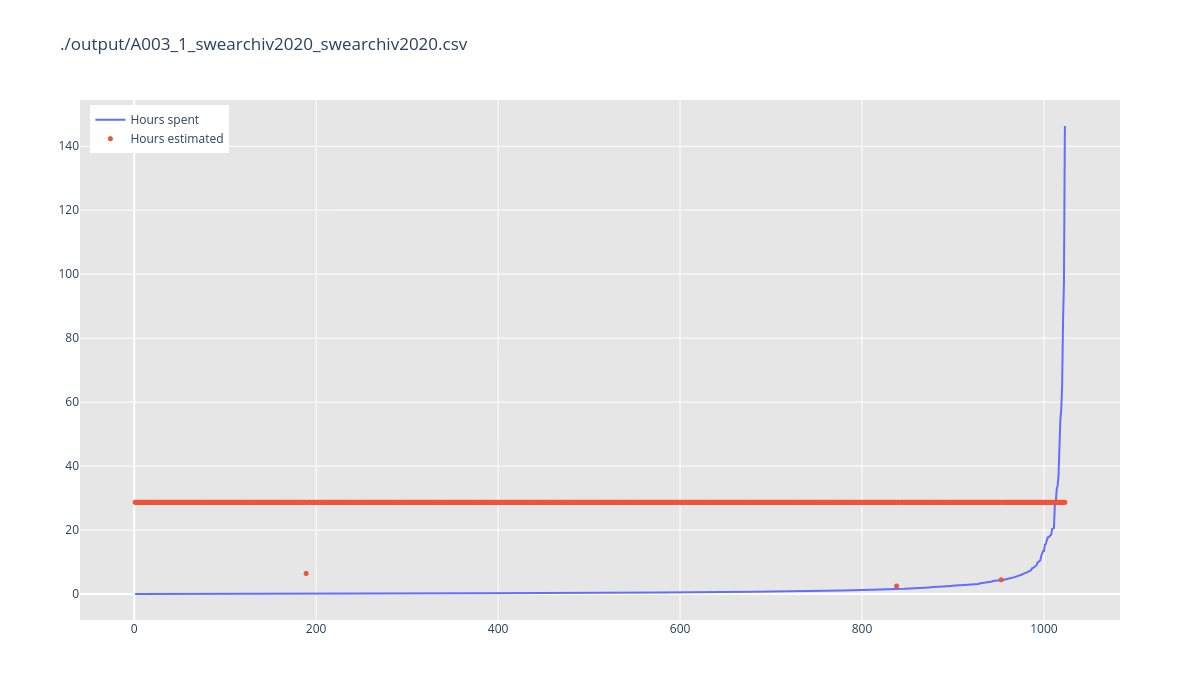
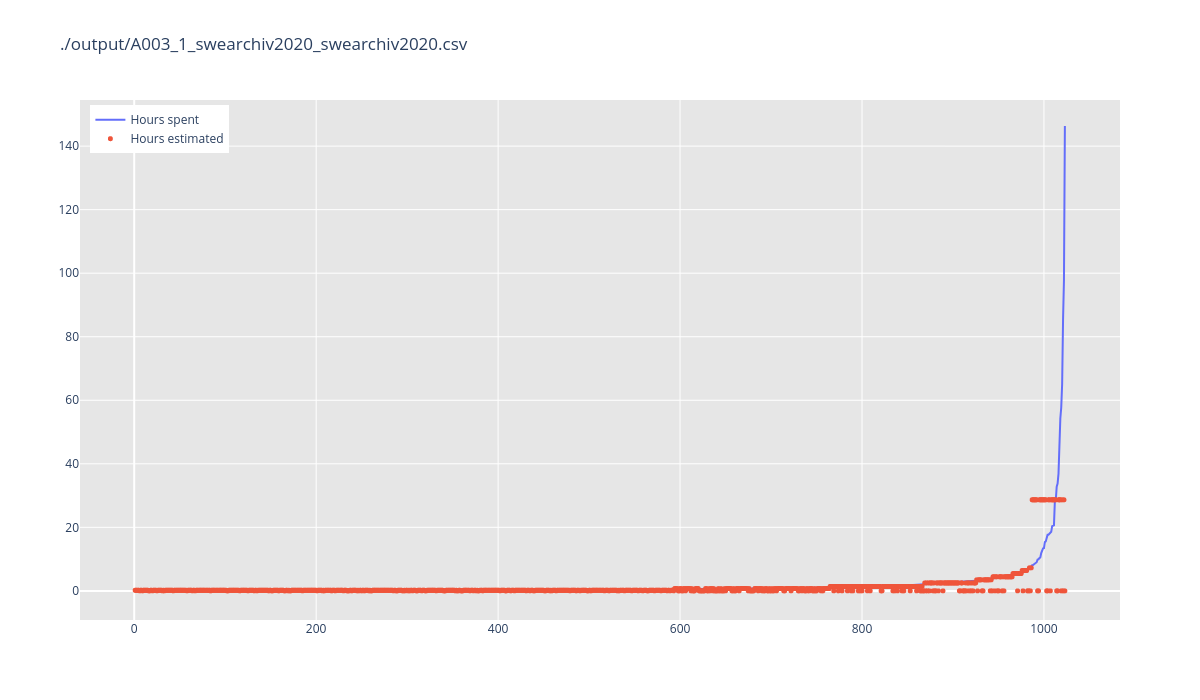
update for the algorithm a003 implementation

Changed region(s): [[0.0617, 0.81, 0.925, 0.87], [0.1233, 0.69, 0.8942, 0.72], [0.8633, 0.75, 0.8942, 0.78]]

diff --git a/Source/a003_1/a003_1.py b/Source/a003_1/a003_1.py
@@ -104,27 +104,21 @@ if args.learn:
 
     for category in range(1,11):
         in_this_category = df[df["Category"]==category]
-        print(in_this_category)
+        the_other_categories = df[df["Category"]!=category]
+
+        specific_words = set()
+        specific_words = allWordsOf(in_this_category["Name"])
+        unspecific_words = allWordsOf(the_other_categories["Name"])
+        specific_words.difference_update(unspecific_words)
+        print("category " + str(category) + " has " + str(len(specific_words)))
+
         information_per_category.append(
             dict(
                 category = category,
-                words = allWordsOf(in_this_category["Name"]),
-                #tasks = in_this_category,
+                words = list(specific_words), 
                 task_count = len(in_this_category),
                 avg_duration_in_seconds = in_this_category["DurationInSeconds"].mean()
             ))
-
-    for category in information_per_category:
-        print("  - optimizing category " + str(category["category"]))
-
-        for theOtherCategory in information_per_category:
-            if theOtherCategory["category"] == category["category"]:
-                continue
-
-            category["words"].difference_update(theOtherCategory["words"])
-
-    for category in information_per_category:
-        category["words"] = list(category["words"])
 
     las.save_json(args.output, information_per_category)
 

diff --git a/Scripts/output/summary-table.tex b/Scripts/output/summary-table.tex
@@ -26,7 +26,7 @@
  A002\_2     & SWEArchiv2020 & SWEArchiv2021 &        L75\%M & -0.241 $\pm$ 12.136 hours & 147.215 \\
  A002\_2     & SWEArchiv2020 & SWEArchiv2021 &        L85\%M &  0.273 $\pm$ 12.136 hours & 147.232 \\
  A002\_2     & SWEArchiv2020 & SWEArchiv2021 &        L95\%M &  0.299 $\pm$ 12.136 hours & 147.247 \\
- A003\_1     & SWEArchiv2020 & SWEArchiv2020 &               &  26.765 $\pm$ 7.805 hours & 777.217 \\
- A003\_1     & SWEArchiv2020 & SWEArchiv2021 &               & 26.921 $\pm$ 12.136 hours & 871.898 \\
+ A003\_1     & SWEArchiv2020 & SWEArchiv2020 &               &  -0.495 $\pm$ 6.858 hours &  47.228 \\
+ A003\_1     & SWEArchiv2020 & SWEArchiv2021 &               & -1.069 $\pm$ 12.425 hours & 155.395 \\
 \hline
 \end{longtable}
